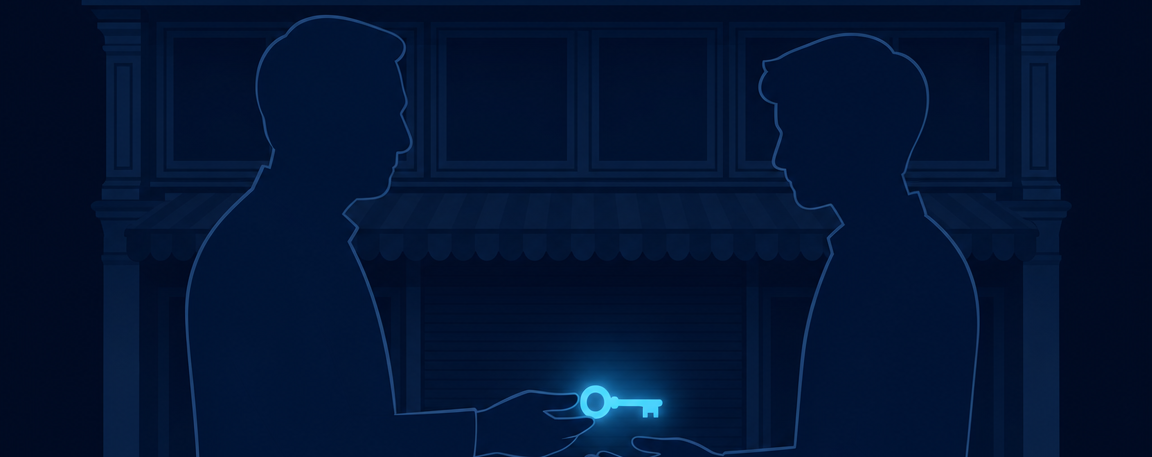
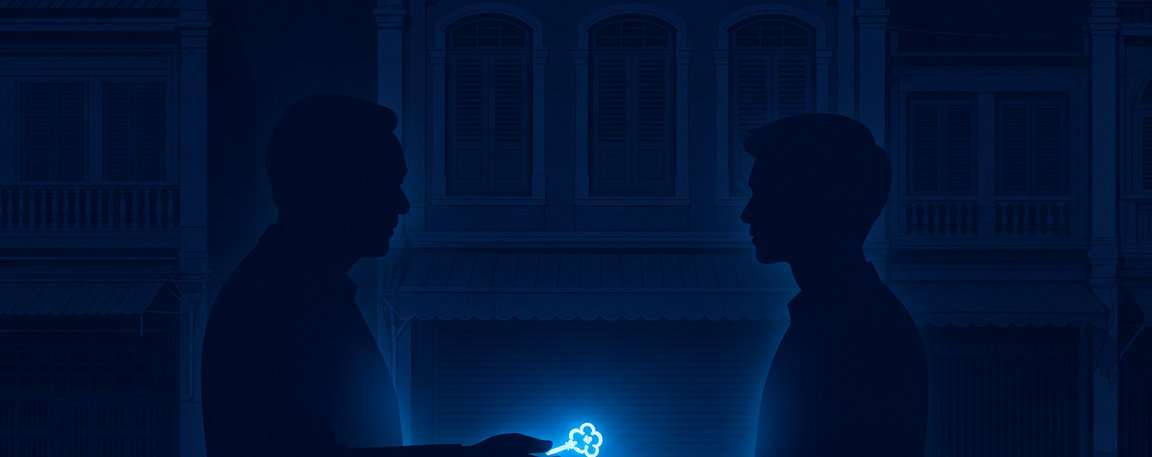
Backdrops integrated, critique fixes applied, deck at 53 slides
All five dark-slide backdrops in (poll ornament alpha-processed to kill
seams). Content critique pass: honest +4.2% pre-COVID CAGR, winners
wording, True-deal caveat, succession tile reconciliation + B50M floor
note, case wording (registered nationwide, not "tracked"), causality
callback, cafe figures unrounded, semicolons cleared. Removed redundant
"Sourcing then vs now" slide. Notes renumbered.

Claude-Session: https://claude.ai/code/session_01XGRxbM3B7zLFZ8pxEtSAVt

diff --git a/webinar/build_deck.py b/webinar/build_deck.py
@@ -86,7 +86,7 @@ b.add("poll_slide", **S("Welcome"),
                "Advisor, banker, or connector",
                "Exploring M&A for the first time"],
       instruction="Vote now in the poll panel",
-      ornament_path=f"{GEN}/backdrops/poll-corner.png")
+      ornament_path=f"{GEN}/backdrops/poll-corner-alpha.png")
 
 b.add("route_map", **S("Agenda"),
       title="Tonight's map: six stops",
@@ -158,9 +158,9 @@ b.add("column_split_growth", **S("1 · Why now"),
       categories=[2016, 2017, 2018, 2019, 2020, 2021, 2022, 2023, 2024, 2025],
       values=[42.5, 44.5, 47.7, 48.1, 44.0, 48.6, 58.6, 60.2, 64.6, 68.0],
       split_index=4,
-      growth_pct_first="+0.9%",
+      growth_pct_first="+4.2%",
       growth_pct_second="+9.1%",
-      description="COVID knocked ฿4T off the market. The recovery ran at 9.1% a year, and FY2025 sits 41% above the pre-COVID peak",
+      description="COVID knocked ฿4T off. The recovery ran 9.1% a year, double the old pace, and FY2025 is 41% above the peak",
       takeaway_header=None,
       axis=False,
       bar_colors=["steel", "steel", "steel", "steel", "pale",
@@ -170,7 +170,7 @@ b.add("column_split_growth", **S("1 · Why now"),
 
 b.add("hbar_ranked", **S("1 · Why now"),
       title="The winners: five industries that took off after COVID",
-      takeaway="Tourism reopening powers the top two. Wholesale & retail added the most baht: ฿33.5T in FY2025.",
+      takeaway="Tourism reopening powers the top two. Wholesale & retail is the biggest in baht: ฿33.5T of FY2025 revenue.",
       unit_note="Revenue growth FY2020 to FY2025, %",
       items=[
           {"label": "Accommodation & food", "value": 141, "display": "+141%"},
@@ -186,7 +186,7 @@ b.add("hbar_ranked", **S("1 · Why now"),
 b.add("hbar_ranked", **S("1 · Why now"),
       title="The laggards: where value is quietly leaking",
       takeaway="Weak segments are where motivated sellers live.",
-      unit_note="Revenue decline FY2020 to FY2025, %. No whole sector shrank in nominal terms; these niches did",
+      unit_note="Revenue decline FY2020 to FY2025, %. No whole sector shrank in nominal terms, but these niches did",
       direction="left",
       items=[
           {"label": "Own-account investment", "value": 40, "display": "-40%"},
@@ -260,10 +260,10 @@ b.add("feature_pick", **S("1 · Why now"),
       runners=[
           {"name": "Cafés & beverage stands",
            "stat": "+288%",
-           "note": "Fastest sub-industry in our screen: ฿8B to ฿32B, companies nearly doubled"},
+           "note": "Fastest sub-industry in our screen: ฿8.2B to ฿31.9B, companies nearly doubled"},
           {"name": "Meat & poultry processing",
            "stat": "+126%",
-           "note": "Revenue up every single year; margin turned positive in FY2024"},
+           "note": "Revenue up every single year, and margin turned positive in FY2024"},
           {"name": "Bakery products",
            "stat": "198",
            "note": "Mid-market companies at ฿10M-1B: the deepest acquisition bench in food"},
@@ -301,7 +301,7 @@ b.add("column_comparison", **S("1 · Why now"),
       categories=["Q1 2025", "Q2 2025", "Q3 2025", "Q4 2025", "Q1 2026"],
       values=[1.0, 3.4, 2.5, 1.3, 7.9],
       focus_index=4,
-      description="Q1 2026: USD 7.9B across 57 deals, six times the prior quarter. One deal, True Corporation's 25% stake, was USD 3.9B",
+      description="Q1 2026: 57 deals worth USD 7.9B. Even without True Corporation's USD 3.9B stake sale, the quarter beats every quarter of 2025",
       takeaway_header=None,
       axis=False,
       data_label="Announced Thailand deal value", data_unit="USD billions",
@@ -365,7 +365,7 @@ b.add("poll_slide", **S("2 · The lens"),
                "The customers and recurring revenue",
                "The competition around it"],
       instruction="Vote now. We'll show you our order in a minute",
-      ornament_path=f"{GEN}/backdrops/poll-corner.png")
+      ornament_path=f"{GEN}/backdrops/poll-corner-alpha.png")
 
 b.add("chevron_flags", **S("2 · The lens"),
       title="The Green 5: what our analysts look for in every target",
@@ -407,7 +407,7 @@ b.add("ledgers", **S("2 · The lens"),
 
 b.add("scorecard_slide", **S("2 · The lens"),
       title="Take this home: the 60-second target scorecard",
-      subtitle="Screenshot this. Rate every target Weak or Strong per line; one Weak in the Red 3 kills the deal",
+      subtitle="Screenshot this. Rate every target Weak or Strong per line. One Weak in the Red 3 kills the deal",
       groups=[
           {"name": "THE GREEN 5 · SCORE THE UPSIDE", "color": "green",
            "rows": [
@@ -623,7 +623,7 @@ b.add("poll_slide", **S("5 · Proof"),
                "I own a business that needs a successor",
                "I connect people and want the referral fee"],
       instruction="Vote now. The cases coming up cover all four",
-      ornament_path=f"{GEN}/backdrops/poll-corner.png")
+      ornament_path=f"{GEN}/backdrops/poll-corner-alpha.png")
 
 b.add("profile_cards", **S("5 · Proof"),
       title="The supply is real: companies like these are in the registry right now",
@@ -654,6 +654,8 @@ b.add("profile_cards", **S("5 · Proof"),
                      "2 directors, both born before 1984"]},
       ],
       disclaimer="Real registry rows, anonymized. Revenue rounded to ฿10M, margins to whole %. "
+                 "Chips show the four sectors this room plays in, and 3,416 more matches sit in other "
+                 "sectors. The screen floors revenue at ฿50M to keep targets bankable. "
                  "Our deal team holds the full list.",
       source=SRC_MAXDATA)
 
@@ -676,14 +678,14 @@ b.add("case_slide", **S("5 · Proof"),
       sector_chip="FIRE SAFETY / TRADING",
       situation=["Husband-and-wife owners near retirement, no successor",
                  "฿100M revenue, ฿30M EBITDA, decades of relationships",
-                 "One of only 112 fire-safety companies tracked in Max Data"],
+                 "One of only 112 registered fire-safety distributors in Thailand"],
       outcome=["New owner modernized systems within months",
                "Employees stayed, morale improved",
                "Owners exited proud, business on an IPO-track plan"],
       bridge_stat="< 6 months to visible turnaround",
       kpis=[{"value": "฿100M", "label": "Revenue at deal"},
             {"value": "฿30M", "label": "EBITDA at deal"},
-            {"value": "112", "label": "fire-safety companies tracked"}],
+            {"value": "112", "label": "registered fire-safety distributors"}],
       photo_label=None,
       photo_path=f"{GEN}/scenes/case-fire.png",
       source="Max Solutions deal team, 2026. Figures approximate to protect the parties")
@@ -700,7 +702,7 @@ b.add("case_slide", **S("5 · Proof"),
                "Now on its way to doubling turnover"],
       bridge_stat="2x turnover trajectory",
       kpis=[{"value": "Top 3", "label": "Google rank in its niche"},
-            {"value": "94", "label": "kitchen-equipment suppliers tracked"}],
+            {"value": "94", "label": "kitchen-equipment suppliers nationwide"}],
       photo_path=f"{GEN}/scenes/case-oven.png",
       source="Max Solutions deal team, 2026. Figures approximate to protect the parties")
 
@@ -715,29 +717,9 @@ _sl_caus = b.add("causality_band", **S("5 · Proof"),
           {"label": "Capable buyers",
            "support": "Corporate resources or sharp operators"},
       ],
-      result="Margins move in months, not years. SME payback: 3-8 years vs 10+ on mega-deals",
+      result="Margins move in months, not years. You watched FireGuard do it in under six",
       source="Max Solutions deal experience across 150+ SME mandates per year")
 _pic(_sl_caus, f"{GEN}/scenes/succession.png", 4.97, 4.85, 3.4, 1.35)
-
-b.add("dimension_table", **S("5 · Proof"),
-      title="Sourcing then vs now: what the data layer changes",
-      left_header="The old way", right_header="With Max Data",
-      check_right=True,
-      rows=[
-          {"dim": "Sourcing",
-           "left": "Call owners one by one, hope",
-           "right": "Screen 993k companies against your thesis"},
-          {"dim": "Financials",
-           "left": "Guesswork until diligence",
-           "right": "10 years of statements before the first call"},
-          {"dim": "Speed",
-           "left": "Months to build a list",
-           "right": "A vetted shortlist in an afternoon"},
-          {"dim": "Your edge",
-           "left": "Who you happen to know",
-           "right": "Seeing what others cannot"},
-      ],
-      source="Max Data platform, July 2026")
 
 # =====================================================================
 # SECTION 6 · ACT
@@ -915,7 +897,7 @@ NOTES = {
     7: "Big line: 'COVID knocked four trillion baht off the market. The recovery ran at nine percent a year.'",
     8: "Pause on the gold factoid. Chat prompt: 'type your industry in the chat.'",
     9: "Frame positively: weak segments are where motivated sellers live. Don't dwell, next slide is the room's own sectors.",
-    10: "This room's four sectors. Logistics people: 9,399 mid-market targets is YOUR number. Move briskly, the drill-down is next.",
+    10: "This room's four sectors. Logistics people: 9,399 mid-market targets is YOUR number. If asked about the +7.5% logistics margin: airports lift it, ex-airports the sector runs low single digits. Move briskly, the drill-down is next.",
     11: "The nuance slide: growth and profit are different places in logistics. 3PL is the clean story; couriers grew broke. 90 seconds.",
     12: "One hero, three runners. Pet food is the 'growth AND margin' proof. Mention the artifact-stripping line: that's analyst rigor.",
     13: "90 seconds max. The room knows this distinction, it's a bridge slide.",
@@ -948,15 +930,14 @@ NOTES = {
     40: "Tell it as a story: the couple, no successor, the sharp buyer, the New Year visit where everyone was happy.",
     41: "Contrast case: foreign buyer, end-to-end process, now doubling turnover.",
     42: "Generalize the pattern: succession + inefficiency + capable buyer.",
-    43: "Callback to the demo: 'your edge is seeing what others cannot.' [T+1:06]",
-    44: "Section 6 · YOUR NEXT STEP. Budget 6 minutes. [T+1:08]",
-    45: "Three take-homes. Second screenshot moment.",
-    46: "Lanes slide: sweep once left to right, 'from us doing everything to you running it all yourself.' Then the hook, unhurried: 'first five bookings get a customized session.' [T+1:03]",
-    47: "THE ask. Type 1 (buy) / 2 (sell) / 3 (refer), scan QR, or add LINE. Say it twice. QR stays up through Q&A. [T+1:10]",
-    48: "About 20 minutes. Seed questions ready: 'what multiples do Thai SMEs sell for?', 'can foreigners buy?', 'how long does a deal take?'",
-    49: "Personal beat. Read the groups briskly and warmly, then slow right down for the last line. Look at the camera for Pim's line.",
-    50: "Mention the replay and community link land in tomorrow's follow-up email.",
-    51: "Appendix: replay material. Skip live unless Q&A pulls them up.",
+    43: "Section 6 · YOUR NEXT STEP. Budget 6 minutes. [T+1:08]",
+    44: "Three take-homes. Second screenshot moment.",
+    45: "Lanes slide: sweep once left to right, 'from us doing everything to you running it all yourself.' Then the hook, unhurried: 'first five bookings get a customized session.' [T+1:03]",
+    46: "THE ask. Type 1 (buy) / 2 (sell) / 3 (refer), scan QR, or add LINE. Say it twice. QR stays up through Q&A. [T+1:10]",
+    47: "About 20 minutes. Seed questions ready: 'what multiples do Thai SMEs sell for?', 'can foreigners buy?', 'how long does a deal take?'",
+    48: "Personal beat. Read the groups briskly and warmly, then slow right down for the last line. Look at the camera for Pim's line.",
+    49: "Mention the replay and community link land in tomorrow's follow-up email.",
+    50: "Appendix: replay material. Skip live unless Q&A pulls them up.",
 }
 
 for _i, _slide in enumerate(b.prs.slides, 1):
